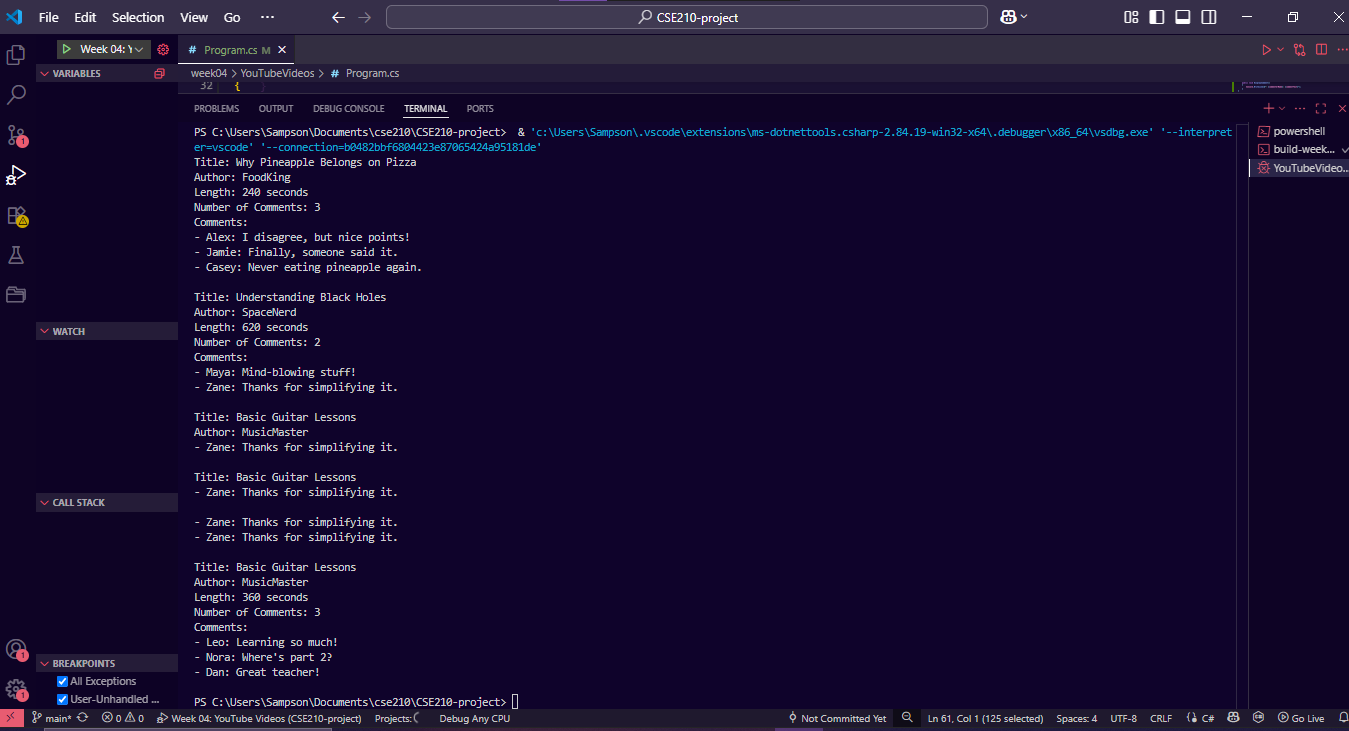
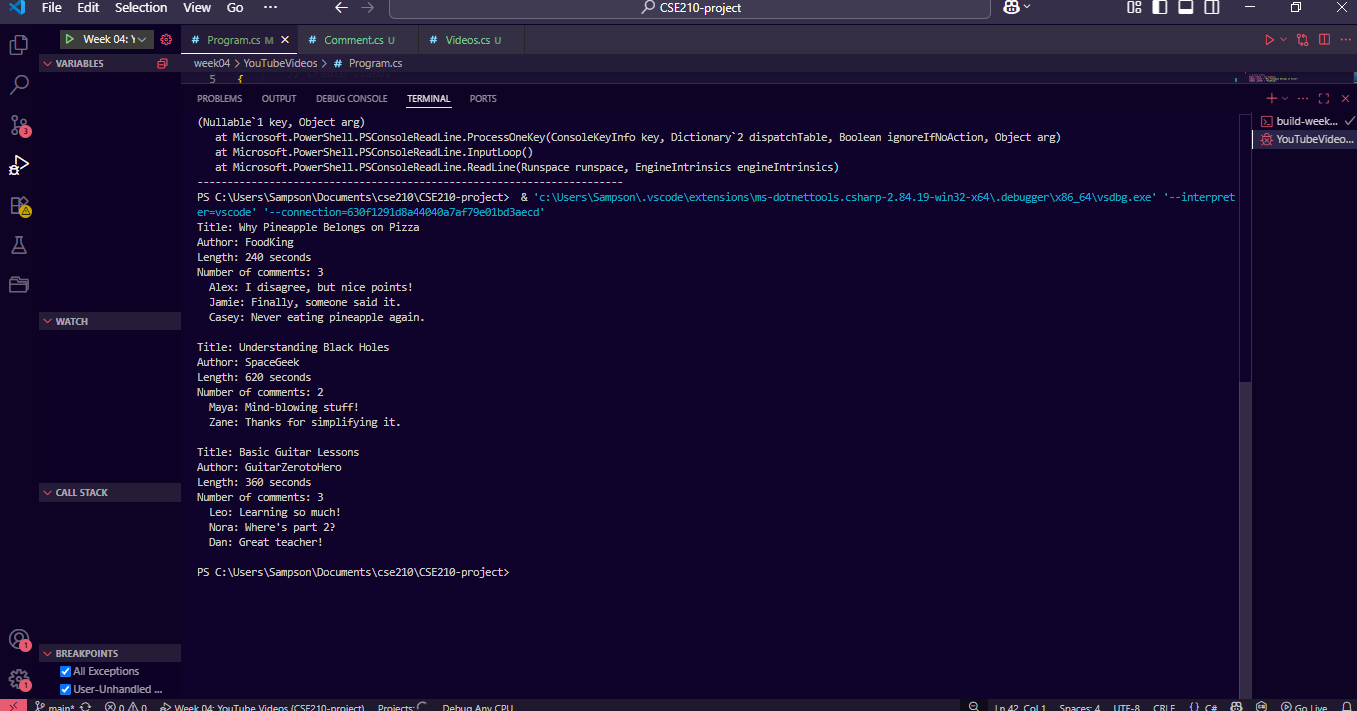
W04 youtube assignment-2

diff --git a/week04/YouTubeVideos/Program.cs b/week04/YouTubeVideos/Program.cs
@@ -1,71 +1,33 @@
 using System;
 using System.Collections.Generic;
 
-class Video
-{
-    public string title;
-    public string author;
-    public int length; // in seconds
-    public List<Comment> comments = new List<Comment>();
-
-    public int GetCommentCount()
-    {
-        return comments.Count;
-    }
-
-    public void DisplayVideoInfo()
-    {
-        Console.WriteLine($"Title: {title}");
-        Console.WriteLine($"Author: {author}");
-        Console.WriteLine($"Length: {length} seconds");
-        Console.WriteLine($"Number of Comments: {GetCommentCount()}");
-        Console.WriteLine("Comments:");
-        foreach (Comment comment in comments)
-        {
-            comment.DisplayComment();
-        }
-        Console.WriteLine();
-    }
-}
-
-class Comment
-{
-    public string commenterName;
-    public string commentText;
-
-    public void DisplayComment()
-    {
-        Console.WriteLine($"- {commenterName}: {commentText}");
-    }
-}
-
 class Program
 {
     static void Main(string[] args)
     {
         // Create videos
         Video video1 = new Video();
-        video1.title = "Why Pineapple Belongs on Pizza";
-        video1.author = "FoodKing";
-        video1.length = 240;
-        video1.comments.Add(new Comment { commenterName = "Alex", commentText = "I disagree, but nice points!" });
-        video1.comments.Add(new Comment { commenterName = "Jamie", commentText = "Finally, someone said it." });
-        video1.comments.Add(new Comment { commenterName = "Casey", commentText = "Never eating pineapple again." });
+        video1._title = "Why Pineapple Belongs on Pizza";
+        video1._author = "FoodKing";
+        video1._length = 240;
+        video1._comments.Add(new Comment { _commenterName = "Alex", _commentText = "I disagree, but nice points!" });
+        video1._comments.Add(new Comment { _commenterName = "Jamie", _commentText = "Finally, someone said it." });
+        video1._comments.Add(new Comment { _commenterName = "Casey", _commentText = "Never eating pineapple again." });
 
         Video video2 = new Video();
-        video2.title = "Understanding Black Holes";
-        video2.author = "SpaceNerd";
-        video2.length = 620;
-        video2.comments.Add(new Comment { commenterName = "Maya", commentText = "Mind-blowing stuff!" });
-        video2.comments.Add(new Comment { commenterName = "Zane", commentText = "Thanks for simplifying it." });
+        video2._title = "Understanding Black Holes";
+        video2._author = "SpaceGeek";
+        video2._length = 620;
+        video2._comments.Add(new Comment { _commenterName = "Maya", _commentText = "Mind-blowing stuff!" });
+        video2._comments.Add(new Comment { _commenterName = "Zane", _commentText = "Thanks for simplifying it." });
 
         Video video3 = new Video();
-        video3.title = "Basic Guitar Lessons";
-        video3.author = "MusicMaster";
-        video3.length = 360;
-        video3.comments.Add(new Comment { commenterName = "Leo", commentText = "Learning so much!" });
-        video3.comments.Add(new Comment { commenterName = "Nora", commentText = "Where’s part 2?" });
-        video3.comments.Add(new Comment { commenterName = "Dan", commentText = "Great teacher!" });
+        video3._title = "Basic Guitar Lessons";
+        video3._author = "GuitarZerotoHero";
+        video3._length = 360;
+        video3._comments.Add(new Comment { _commenterName = "Leo", _commentText = "Learning so much!" });
+        video3._comments.Add(new Comment { _commenterName = "Nora", _commentText = "Where’s part 2?" });
+        video3._comments.Add(new Comment { _commenterName = "Dan", _commentText = "Great teacher!" });
 
         // Add videos to list
         List<Video> videos = new List<Video> { video1, video2, video3 };

diff --git a/week04/YouTubeVideos/Videos.cs b/week04/YouTubeVideos/Videos.cs
@@ -1,0 +1,40 @@
+using System;
+using System.Collections.Generic;
+
+public class Video
+{
+    public string _title;
+    public string _author;
+    public int _length;
+    public List<Comment> _comments = new List<Comment>();
+
+    public int GetCommentCount()
+    {
+        return _comments.Count;
+    }
+
+    public void DisplayVideoInfo()
+    {
+        Console.WriteLine($"Title: {_title}");
+        Console.WriteLine($"Author: {_author}");
+        Console.WriteLine($"Length: {_length} seconds");
+        Console.WriteLine($"Number of comments: {GetCommentCount()}");
+
+        foreach (Comment comment in _comments)
+        {
+            Console.WriteLine($"  {_commenterName(comment)}: {_commentText(comment)}");
+        }
+
+        Console.WriteLine();
+    }
+
+    private string _commenterName(Comment comment)
+    {
+        return comment._commenterName;
+    }
+
+    private string _commentText(Comment comment)
+    {
+        return comment._commentText;
+    }
+}

diff --git a/week04/YouTubeVideos/Comment.cs b/week04/YouTubeVideos/Comment.cs
@@ -1,0 +1,11 @@
+using System;
+using System.Collections.Generic;
+
+
+public class Comment
+{
+    public string _commenterName;
+    public string _commentText;
+}
+
+
